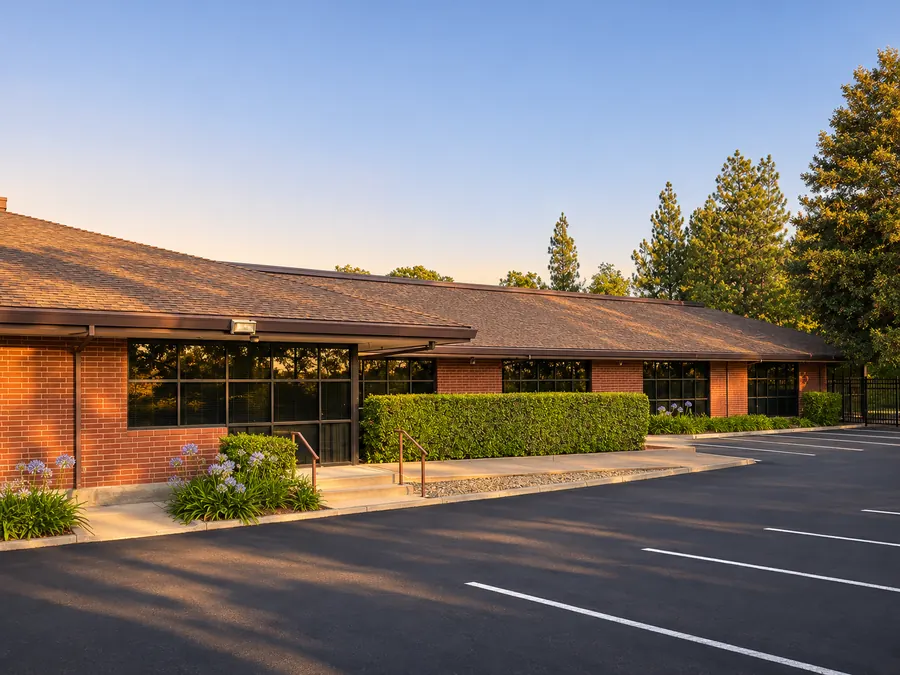
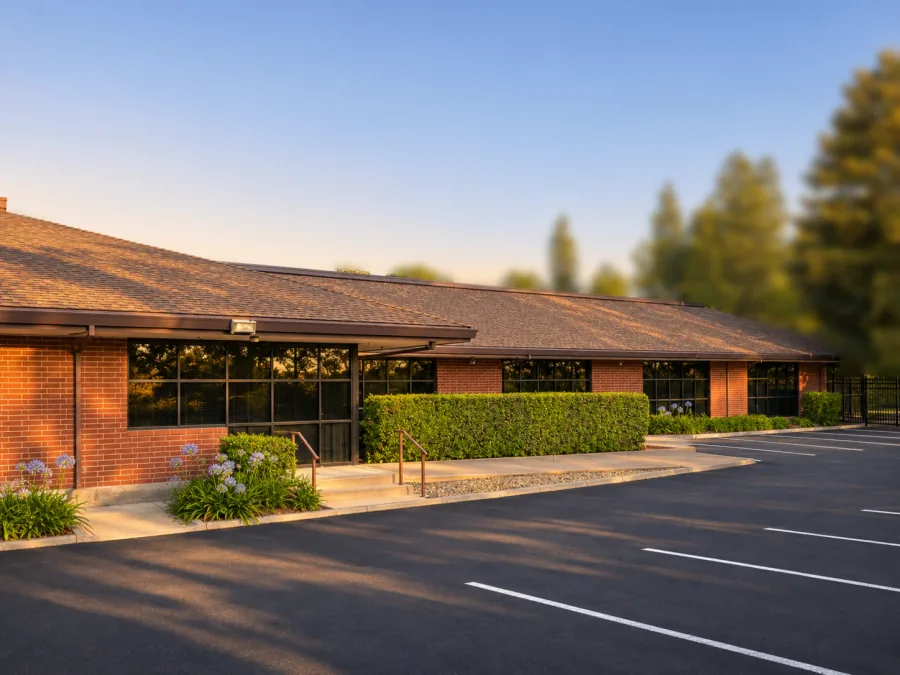
Publish site

diff --git a/index.html b/index.html
@@ -16,13 +16,14 @@
 <link rel="preload" href="site.js" as="script">
 <link rel="stylesheet" href="styles.css">
 <style>/* Первый экран как у Lucid (выбор V 04.11 из трёх вариантов), содержание по схеме лендингов ConvertMonster (research/дизайн/первый-экран-как-делают/).
-   Фото фасада на весь экран, затемнение только слева под словами и внизу под формой, плашек нет. Шапка: название, что здесь и адрес.
+   Фото фасада на весь экран, дальний план размыт (tools/depth.py), затемнение только слева под словами и внизу под формой, плашек нет.
+   Текст белый с мягкой тенью у букв, чтобы читался с одного взгляда (V 04.11: «текст сливается с изображением»). Шапка: название, что здесь и адрес.
    Заголовок с ценой, строка «кому», три выгоды (жирный заголовок и строка пояснения), повод и форма строкой внизу, мелкая строка под ней.
    Картинка сгенерирована Codex по снимкам cl-10 и cl-06 (content/facts.md), низ уходит в винное поле, стыка с макетом нет */
-.hero{position:relative;isolation:isolate;display:flex;flex-direction:column;align-items:flex-start;min-height:100vh;min-height:100svh;padding:0 var(--m) clamp(28px,5vh,48px);color:var(--cream);overflow:hidden;overflow:clip}
+.hero{position:relative;isolation:isolate;display:flex;flex-direction:column;align-items:flex-start;min-height:100vh;min-height:100svh;padding:0 var(--m) clamp(28px,5vh,48px);color:#fff;text-shadow:0 1px 2px rgba(20,8,11,.35),0 2px 20px rgba(20,8,11,.4);overflow:hidden;overflow:clip}
 .hero .photo{position:absolute;z-index:-2;inset:0;animation:settle 2.4s cubic-bezier(.16,1,.3,1) both}
 .hero .photo img{position:absolute;inset:0;width:100%;height:100%;object-fit:cover;object-position:50% 45%}
-.hero::after{content:"";position:absolute;z-index:-1;inset:0;background:linear-gradient(100deg,rgba(28,11,15,.78) 0%,rgba(28,11,15,.52) 34%,rgba(28,11,15,0) 62%),linear-gradient(0deg,var(--claret) 0%,rgba(69,28,37,.8) 16%,rgba(69,28,37,0) 40%)}
+.hero::after{content:"";position:absolute;z-index:-1;inset:0;background:linear-gradient(100deg,rgba(20,8,11,.86) 0%,rgba(20,8,11,.66) 36%,rgba(20,8,11,.3) 58%,rgba(20,8,11,0) 76%),linear-gradient(0deg,var(--claret) 0%,rgba(69,28,37,.8) 16%,rgba(69,28,37,0) 40%)}
 /* Полосы: копии одной картинки, каждая обрезана в свою полосу и движется сама (site/code/hero.js) */
 .hero .bands{position:absolute;inset:0}
 .hero .bands i{position:absolute;inset:0;will-change:transform}
@@ -35,28 +36,28 @@
 
 h1{margin-top:clamp(32px,9vh,104px);max-width:12em;font-size:clamp(40px,min(4.4vw,7.2vh),64px);line-height:1.04;font-weight:600;letter-spacing:-.015em;text-wrap:balance;animation:rise 1s .15s cubic-bezier(.16,1,.3,1) both}
 h1 em{display:block;font-style:normal;color:var(--coral)}
-.sub{margin-top:16px;font-size:19px;line-height:28px;font-weight:500;animation:rise 1s .25s cubic-bezier(.16,1,.3,1) both}
+.sub{margin-top:16px;font-size:21px;line-height:30px;font-weight:600;animation:rise 1s .25s cubic-bezier(.16,1,.3,1) both}
 
 /* Три выгоды: тонкий значок, жирный заголовок и строка пояснения. Без <b>: в .cut его забирают полосы ворот (styles.css) */
 .perks{display:flex;flex-wrap:wrap;gap:16px 48px;margin-top:36px;padding:0;list-style:none;animation:rise 1s .35s cubic-bezier(.16,1,.3,1) both}
 .perks li{display:flex;align-items:flex-start;gap:12px;white-space:nowrap}
-.perks svg{flex:none;width:24px;height:24px;fill:none;stroke:currentColor;stroke-width:1.25;stroke-linecap:round;stroke-linejoin:round}
-.perks strong{display:block;font-size:17px;line-height:24px;font-weight:700}
-.perks span{display:block;font-size:15px;line-height:22px;opacity:.85}
+.perks svg{flex:none;width:26px;height:26px;filter:drop-shadow(0 1px 2px rgba(20,8,11,.4));fill:none;stroke:currentColor;stroke-width:1.25;stroke-linecap:round;stroke-linejoin:round}
+.perks strong{display:block;font-size:19px;line-height:26px;font-weight:700}
+.perks span{display:block;font-size:16px;line-height:24px;font-weight:500;opacity:.92}
 
 /* Форма строкой, как бронирование: над ней повод, под ней мелкая строка. Отправки нет, после кнопки видно form.off (site/code/lead.js) */
 .lead{align-self:stretch;margin-top:auto;padding-top:48px;animation:rise 1s .45s cubic-bezier(.16,1,.3,1) both}
-.get{font-size:17px;line-height:24px;font-weight:700}
+.get{font-size:19px;line-height:26px;font-weight:700}
 .fields{display:flex;flex-wrap:wrap;align-items:flex-end;gap:16px 32px}
 .fields .fld{flex:1 1 180px}
-.fields .btn{flex:none}
-.small{margin-top:12px;font-size:14px;line-height:20px;opacity:.85}
+.fields .btn{flex:none;text-shadow:none}
+.small{margin-top:12px;font-size:15px;line-height:22px;font-weight:500;opacity:.92}
 .form-bad,.form-off{margin-top:12px;font-size:15px;line-height:22px;font-weight:700}
 .fld{position:relative;display:block;padding-top:22px;cursor:text;box-shadow:inset 0 -1px color-mix(in srgb,currentColor 60%,transparent)}
 .fld::after{content:"";position:absolute;left:0;right:0;bottom:0;height:2px;background:currentColor;transform:scaleX(0);transform-origin:0 50%;transition:transform .45s var(--ease)}
 .fld:focus-within::after{transform:scaleX(1)}
 .fld input{display:block;width:100%;padding:6px 32px 12px 0;border:0;border-radius:0;outline:0;background:none;color:inherit;caret-color:var(--coral);font:500 18px/28px var(--text)}
-.fld input:-webkit-autofill{-webkit-box-shadow:inset 0 0 0 64px var(--claret);-webkit-text-fill-color:var(--cream)}
+.fld input:-webkit-autofill{-webkit-box-shadow:inset 0 0 0 64px var(--claret);-webkit-text-fill-color:#fff}
 .fld span{position:absolute;left:0;top:28px;font-size:18px;line-height:28px;opacity:.85;transform-origin:0 0;pointer-events:none;transition:transform .25s var(--ease),opacity .25s}
 .fld input:focus+span,.fld input:not(:placeholder-shown)+span{transform:translateY(-26px) scale(.75);opacity:1}
 .tick{position:absolute;right:0;bottom:12px;opacity:0;transform:scale(.6);transition:opacity .2s,transform .3s var(--ease)}
